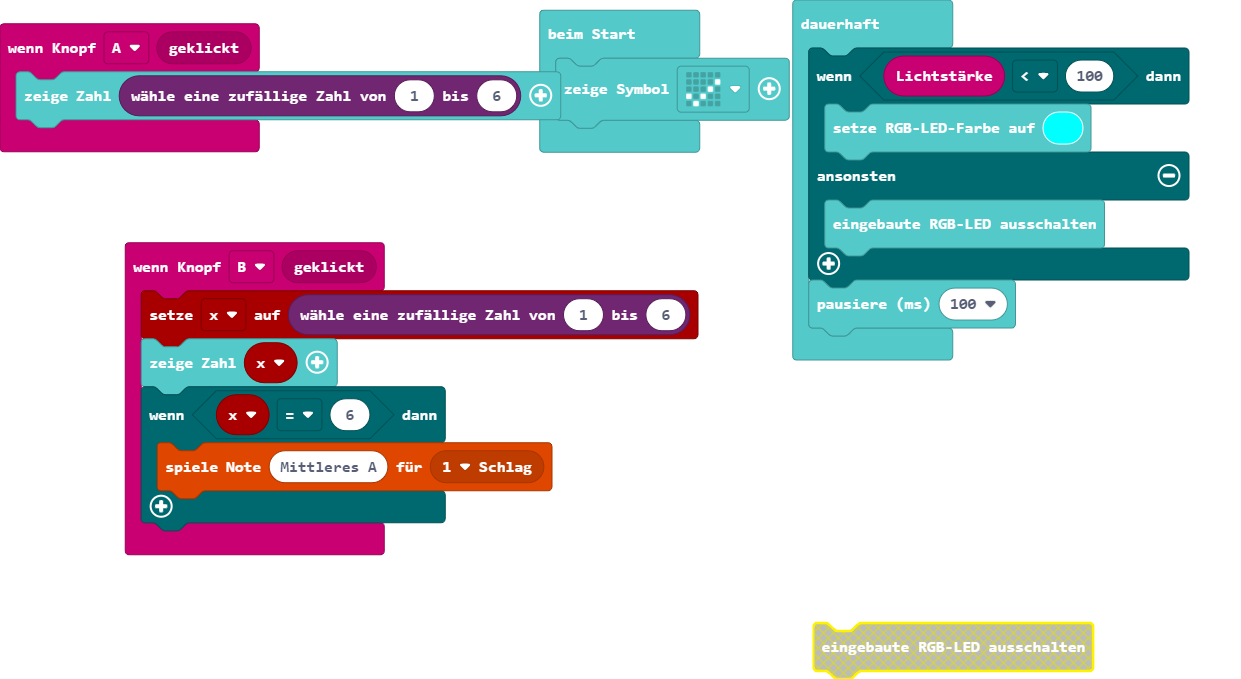
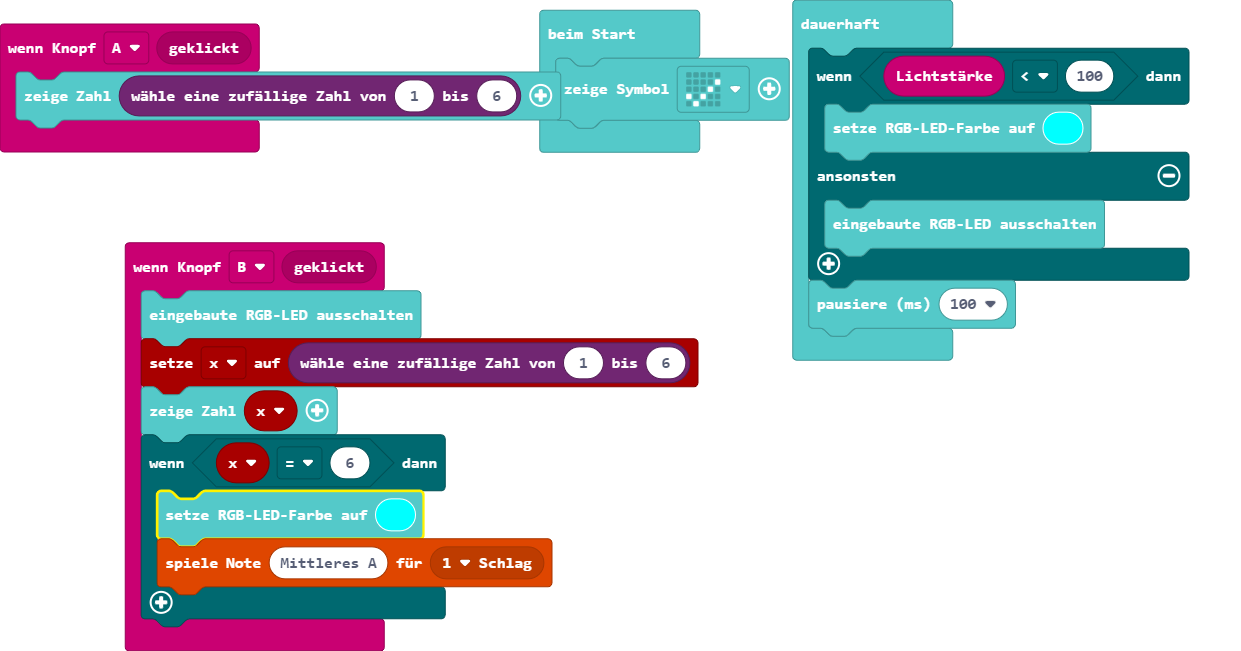
Aktualisiere main.blocks, main.ts

diff --git a/main.ts b/main.ts
@@ -2,9 +2,11 @@ input.onButtonEvent(Button.A, input.buttonEventClick(), function () {
     basic.showNumber(randint(1, 6))
 })
 input.onButtonEvent(Button.B, input.buttonEventClick(), function () {
+    basic.turnRgbLedOff()
     x = randint(1, 6)
     basic.showNumber(x)
     if (x == 6) {
+        basic.setLedColor(0x00ffff)
         music.playTone(440, music.beat(BeatFraction.Whole))
     }
 })
